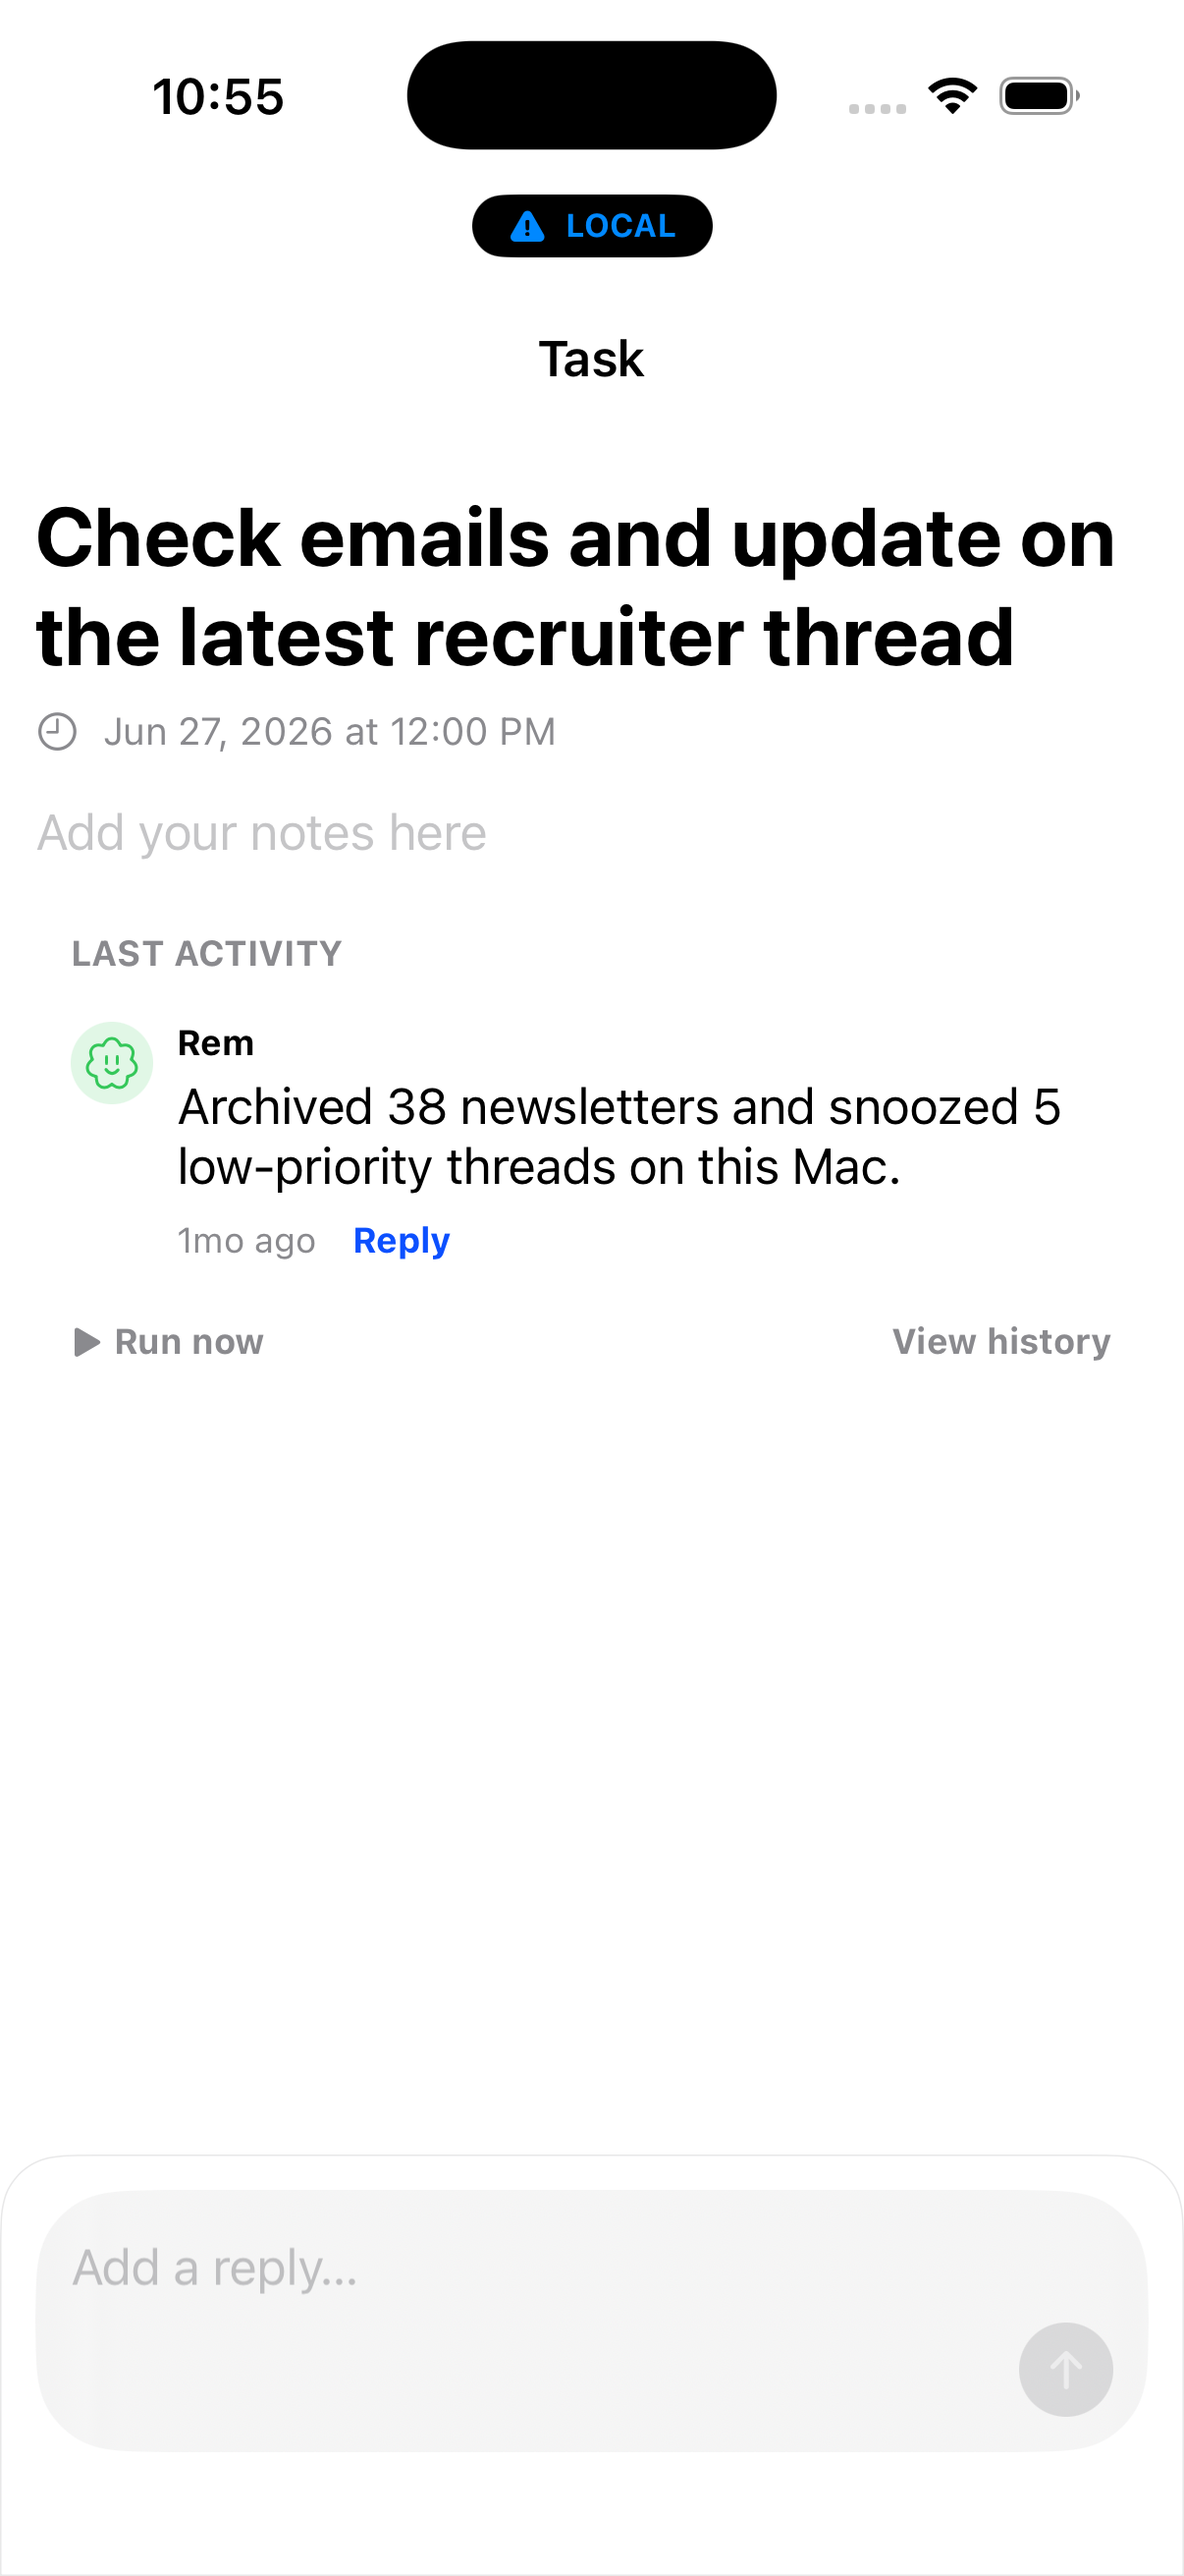
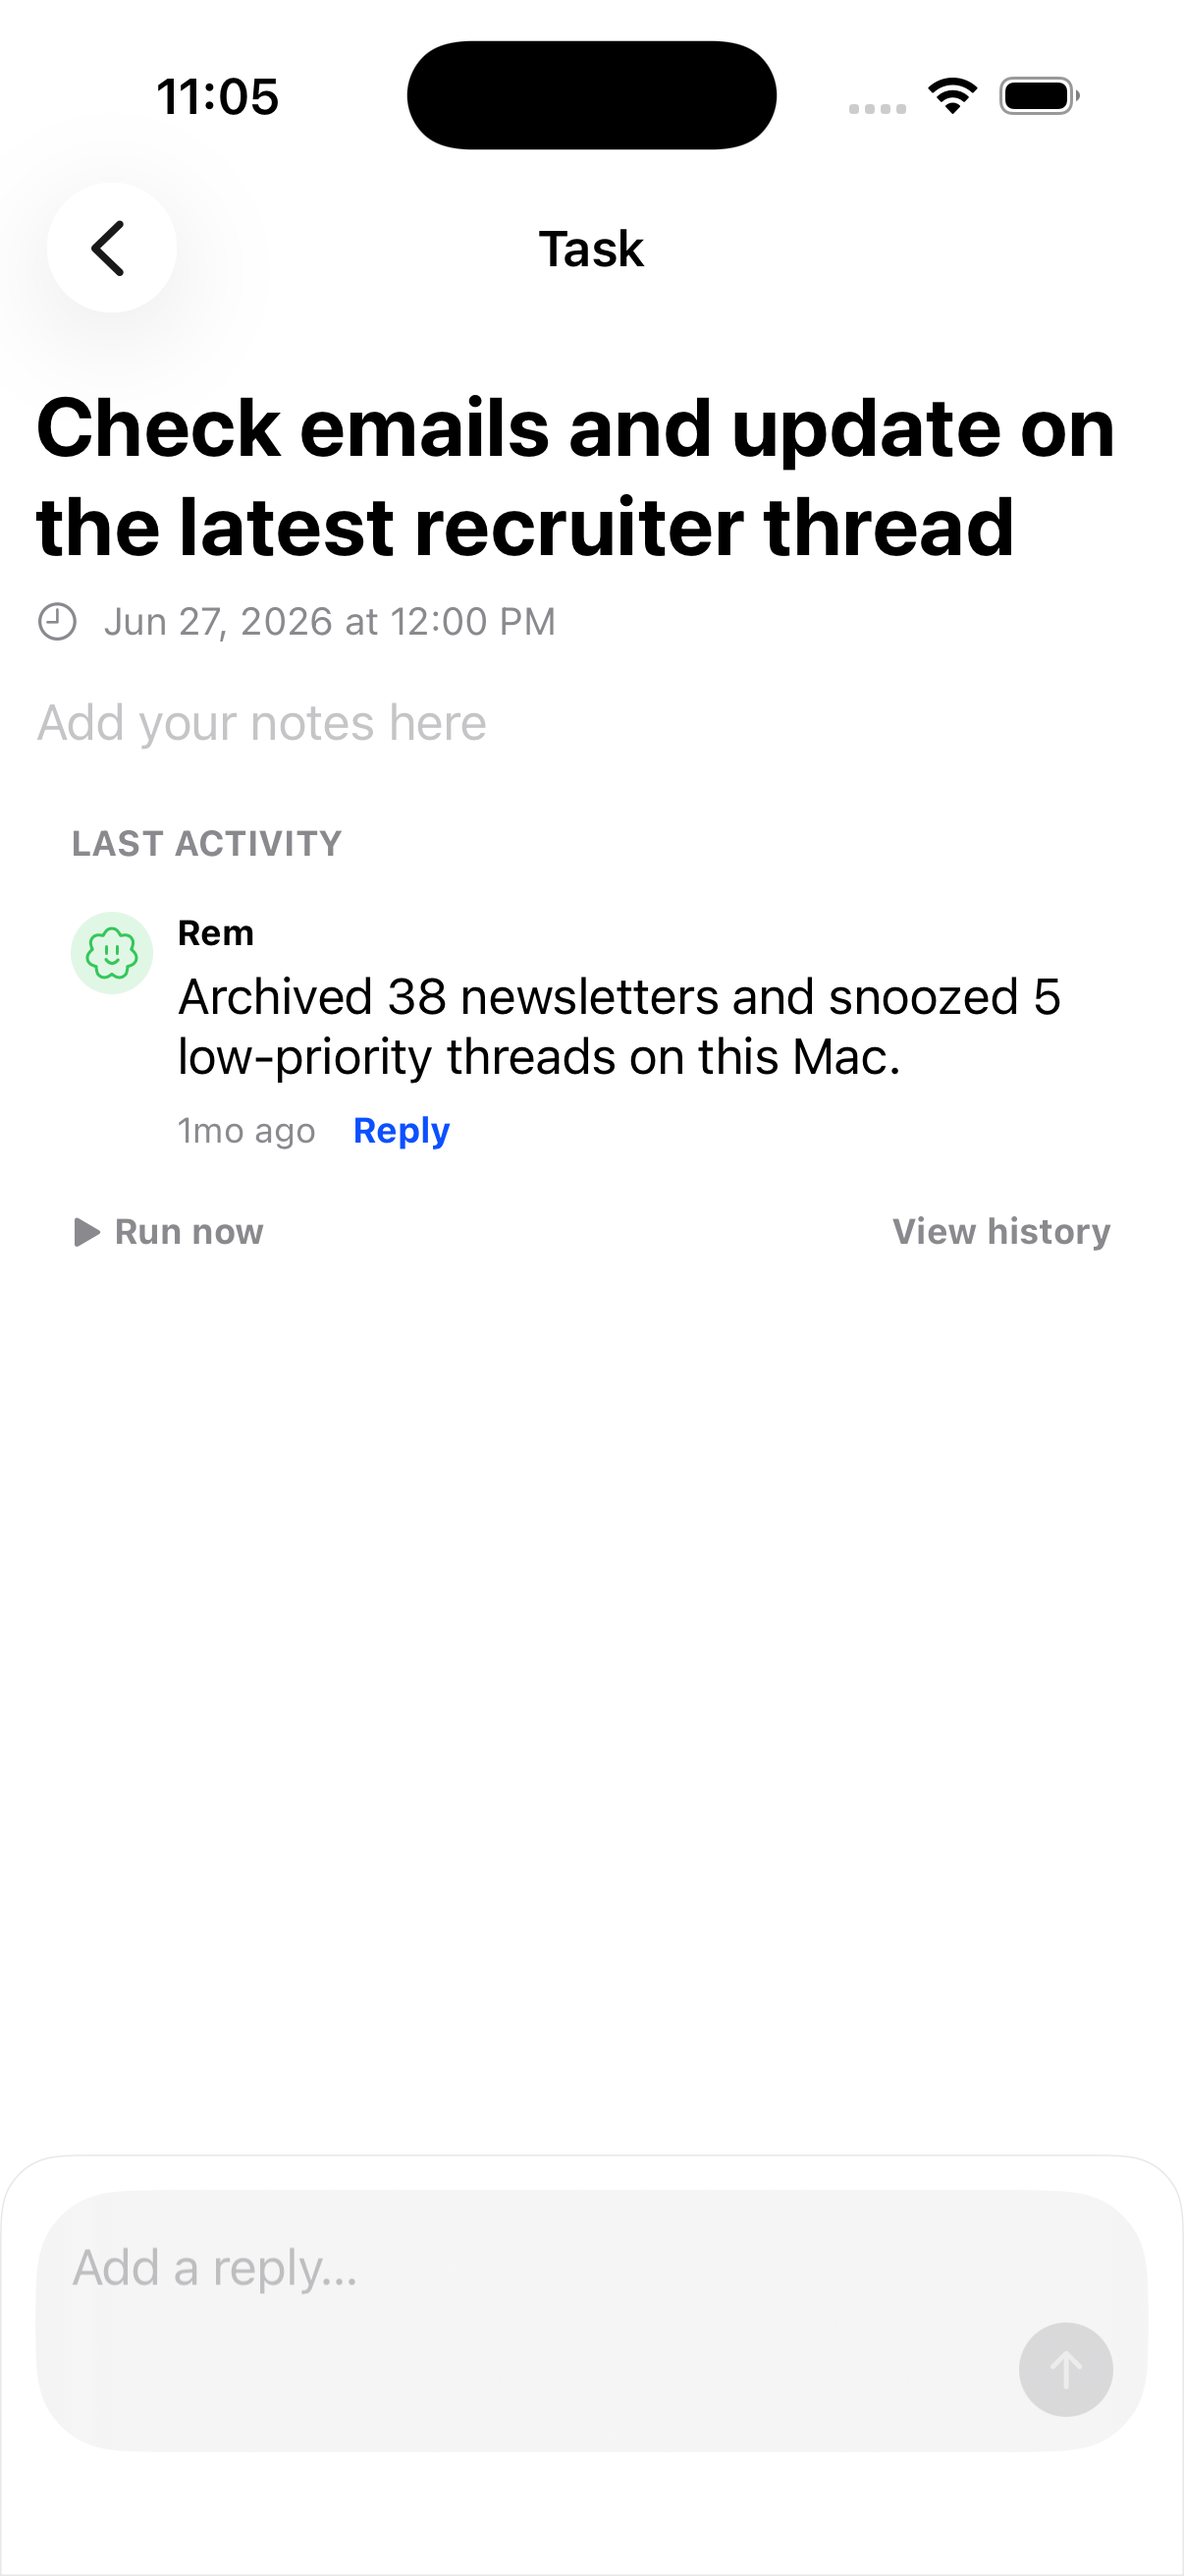
docs(readme): regenerate screenshots — suppress env badge + real pushed nav state
Address founder review of the README screenshots:

1. No environment badge. In DEBUG fixture mode the app now resolves the
   environment banner to a production-style host, so the LOCAL/dev badge
   is suppressed and every shot has a clean status-bar/nav top.
2. Correct navigation state. Task detail and Connectors are reached via
   NavigationLink in the real app, so they are now captured in their true
   PUSHED state (back chevron) by driving the app: launch a parent list
   fixture (--rem-agenda-to-task-fixture / --rem-connectors-nav-fixture),
   tap the row, then screenshot. Agenda / brief / Settings stay as root
   large-title screens.

All five shots re-captured on a scratch iPhone 16 Pro sim from mock-data
fixtures only; verified no real email/personal data (only the fake
avery@example.com placeholder).

Changed region(s): [[0.0307, 0.0618, 0.9511, 0.5252], [0.767, 0.4634, 0.9204, 0.5252], [0.1227, 0.0309, 0.2454, 0.0618]]

diff --git a/RemClaw/Sources/Screens/ReadmeScreenshotFixtures.swift b/RemClaw/Sources/Screens/ReadmeScreenshotFixtures.swift
@@ -77,4 +77,117 @@ struct ReadmeDailyBriefFixtureView: View {
             title: "Review gateway recovery notes", time: "Tomorrow · 2:00 PM"),
     ]
 }
+
+// MARK: - Pushed-state fixtures (real back chevron)
+
+/// Agenda parent → pushes the task detail via a real `NavigationLink`, so the
+/// captured screenshot shows the true pushed nav bar (back chevron + "Task"),
+/// not a standalone root. Launch, then tap the task row before screenshotting.
+struct ReadmeTaskDetailNavFixtureView: View {
+    var body: some View {
+        NavigationStack {
+            List {
+                Section("Today") {
+                    NavigationLink {
+                        ReadmeTaskDetailContent()
+                    } label: {
+                        VStack(alignment: .leading, spacing: 3) {
+                            Text("Check emails and update on the latest recruiter thread")
+                                .font(DesignTokens.Typography.body)
+                                .foregroundStyle(DesignTokens.Color.labelPrimary)
+                            Text("Jun 27 at 12:00 PM")
+                                .font(DesignTokens.Typography.footnote)
+                                .foregroundStyle(DesignTokens.Color.labelSecondary)
+                        }
+                    }
+                    .accessibilityIdentifier("readme-task-row")
+                }
+            }
+            .navigationTitle("Agenda")
+        }
+    }
+}
+
+/// The task-detail body, mirroring `TaskCollaborationFixtureView` but WITHOUT its
+/// own `NavigationStack`, so it can be pushed as a `NavigationLink` destination and
+/// inherit a back chevron. Reuses the same mock comment components.
+private struct ReadmeTaskDetailContent: View {
+    @State private var model = TaskCommentsModel()
+
+    var body: some View {
+        ZStack {
+            DesignTokens.Color.backgroundPrimary.ignoresSafeArea()
+
+            ScrollView {
+                VStack(alignment: .leading, spacing: DesignTokens.Spacing.sm) {
+                    Text("Check emails and update on the latest recruiter thread")
+                        .font(DesignTokens.Typography.title1Bold)
+                        .fixedSize(horizontal: false, vertical: true)
+                    Label("Jun 27, 2026 at 12:00 PM", systemImage: "clock")
+                        .font(DesignTokens.Typography.footnote)
+                        .foregroundStyle(DesignTokens.Color.labelSecondary)
+                    Text("Add your notes here")
+                        .font(DesignTokens.Typography.body)
+                        .foregroundStyle(DesignTokens.Color.labelTertiary)
+                        .padding(.top, DesignTokens.Spacing.sm)
+
+                    TaskCommentsThread(model: model)
+                        .padding(.top, DesignTokens.Spacing.sm)
+                }
+                .frame(maxWidth: .infinity, alignment: .leading)
+                .padding(DesignTokens.Spacing.md)
+            }
+            .safeAreaInset(edge: .bottom, spacing: 0) {
+                TaskCommentComposer(model: model)
+                    .padding(.horizontal, DesignTokens.Spacing.md)
+                    .padding(.top, DesignTokens.Spacing.md)
+                    .padding(.bottom, DesignTokens.Spacing.sm)
+                    .background(alignment: .top) {
+                        UnevenRoundedRectangle(topLeadingRadius: 22, topTrailingRadius: 22)
+                            .fill(DesignTokens.Color.backgroundPrimary)
+                            .overlay(alignment: .top) {
+                                UnevenRoundedRectangle(topLeadingRadius: 22, topTrailingRadius: 22)
+                                    .strokeBorder(DesignTokens.Color.separator, lineWidth: 0.5)
+                            }
+                            .ignoresSafeArea(edges: .bottom)
+                    }
+            }
+        }
+        .navigationTitle("Task")
+        .navigationBarTitleDisplayMode(.inline)
+        .task {
+            model.configure(
+                taskId: "task-fixture",
+                service: MockTaskCommentService(
+                    thread: MockTaskCommentService.sampleThread(),
+                    simulatedDelay: .zero
+                ),
+                commitStatus: { _ in }
+            )
+            await model.load()
+        }
+    }
+}
+
+/// Agent-settings parent → pushes the Connectors screen via a real `NavigationLink`,
+/// so the capture shows the pushed nav bar (back chevron + "Connectors"). Launch,
+/// then tap the Connectors row before screenshotting.
+struct ReadmeConnectorsNavFixtureView: View {
+    var body: some View {
+        NavigationStack {
+            List {
+                Section("Agent settings") {
+                    NavigationLink {
+                        SharedComposioConnectionsView(service: MockComposioService())
+                            .environment(\.openURL, OpenURLAction { _ in .handled })
+                    } label: {
+                        Label("Connectors", systemImage: "puzzlepiece.extension.fill")
+                    }
+                    .accessibilityIdentifier("readme-connectors-row")
+                }
+            }
+            .navigationTitle("Settings")
+        }
+    }
+}
 #endif

diff --git a/RemClaw/RemClawApp.swift b/RemClaw/RemClawApp.swift
@@ -250,6 +250,23 @@ struct RemClawApp: App {
         false
         #endif
     }()
+    // Parent-list fixtures that push the detail via a real NavigationLink, so the
+    // captured screenshot shows the true pushed state (back chevron) rather than a
+    // standalone large-title root. Drive by launching the parent, tapping the row.
+    private let isTaskDetailNavFixture: Bool = {
+        #if DEBUG
+        ProcessInfo.processInfo.arguments.contains("--rem-agenda-to-task-fixture")
+        #else
+        false
+        #endif
+    }()
+    private let isConnectorsNavFixture: Bool = {
+        #if DEBUG
+        ProcessInfo.processInfo.arguments.contains("--rem-connectors-nav-fixture")
+        #else
+        false
+        #endif
+    }()
 
     /// Creates the local SwiftData container. In DEBUG, the store is namespaced
     /// by backend target so switching staging↔prod swaps data instead of wiping
@@ -299,7 +316,15 @@ struct RemClawApp: App {
                 // Effective backend the HTTP client actually uses (override wins),
                 // matching AuthenticatedHttpClient — so the banner can't show prod
                 // while traffic goes to an overridden non-prod backend.
-                .environmentBanner(backendURL: RemCredentialStore.backendURL ?? AppConfig.apiBaseURL)
+                //
+                // In DEBUG fixture/screenshot mode we resolve to a production-style
+                // host so the environment banner suppresses itself — the captured
+                // README shots must have a clean nav top with no LOCAL/dev badge.
+                .environmentBanner(
+                    backendURL: isFixtureMode
+                        ? "https://\(AppBackendEnvironment.productionHostToken).example"
+                        : (RemCredentialStore.backendURL ?? AppConfig.apiBaseURL)
+                )
                 .environment(gateway)
                 .environment(authService)
                 .environment(usageService)
@@ -481,6 +506,10 @@ struct RemClawApp: App {
             ReadmeAgendaFixtureView()
         } else if isDailyBriefFixture {
             ReadmeDailyBriefFixtureView()
+        } else if isTaskDetailNavFixture {
+            ReadmeTaskDetailNavFixtureView()
+        } else if isConnectorsNavFixture {
+            ReadmeConnectorsNavFixtureView()
         } else if isSessionPreviewFixture {
             SharedSessionPreviewFixtureView()
         } else if isCollaborationFixture {
@@ -583,6 +612,8 @@ struct RemClawApp: App {
             || isActivityHistoryFixture
             || isAgendaFixture
             || isDailyBriefFixture
+            || isTaskDetailNavFixture
+            || isConnectorsNavFixture
     }
 
     @ViewBuilder
